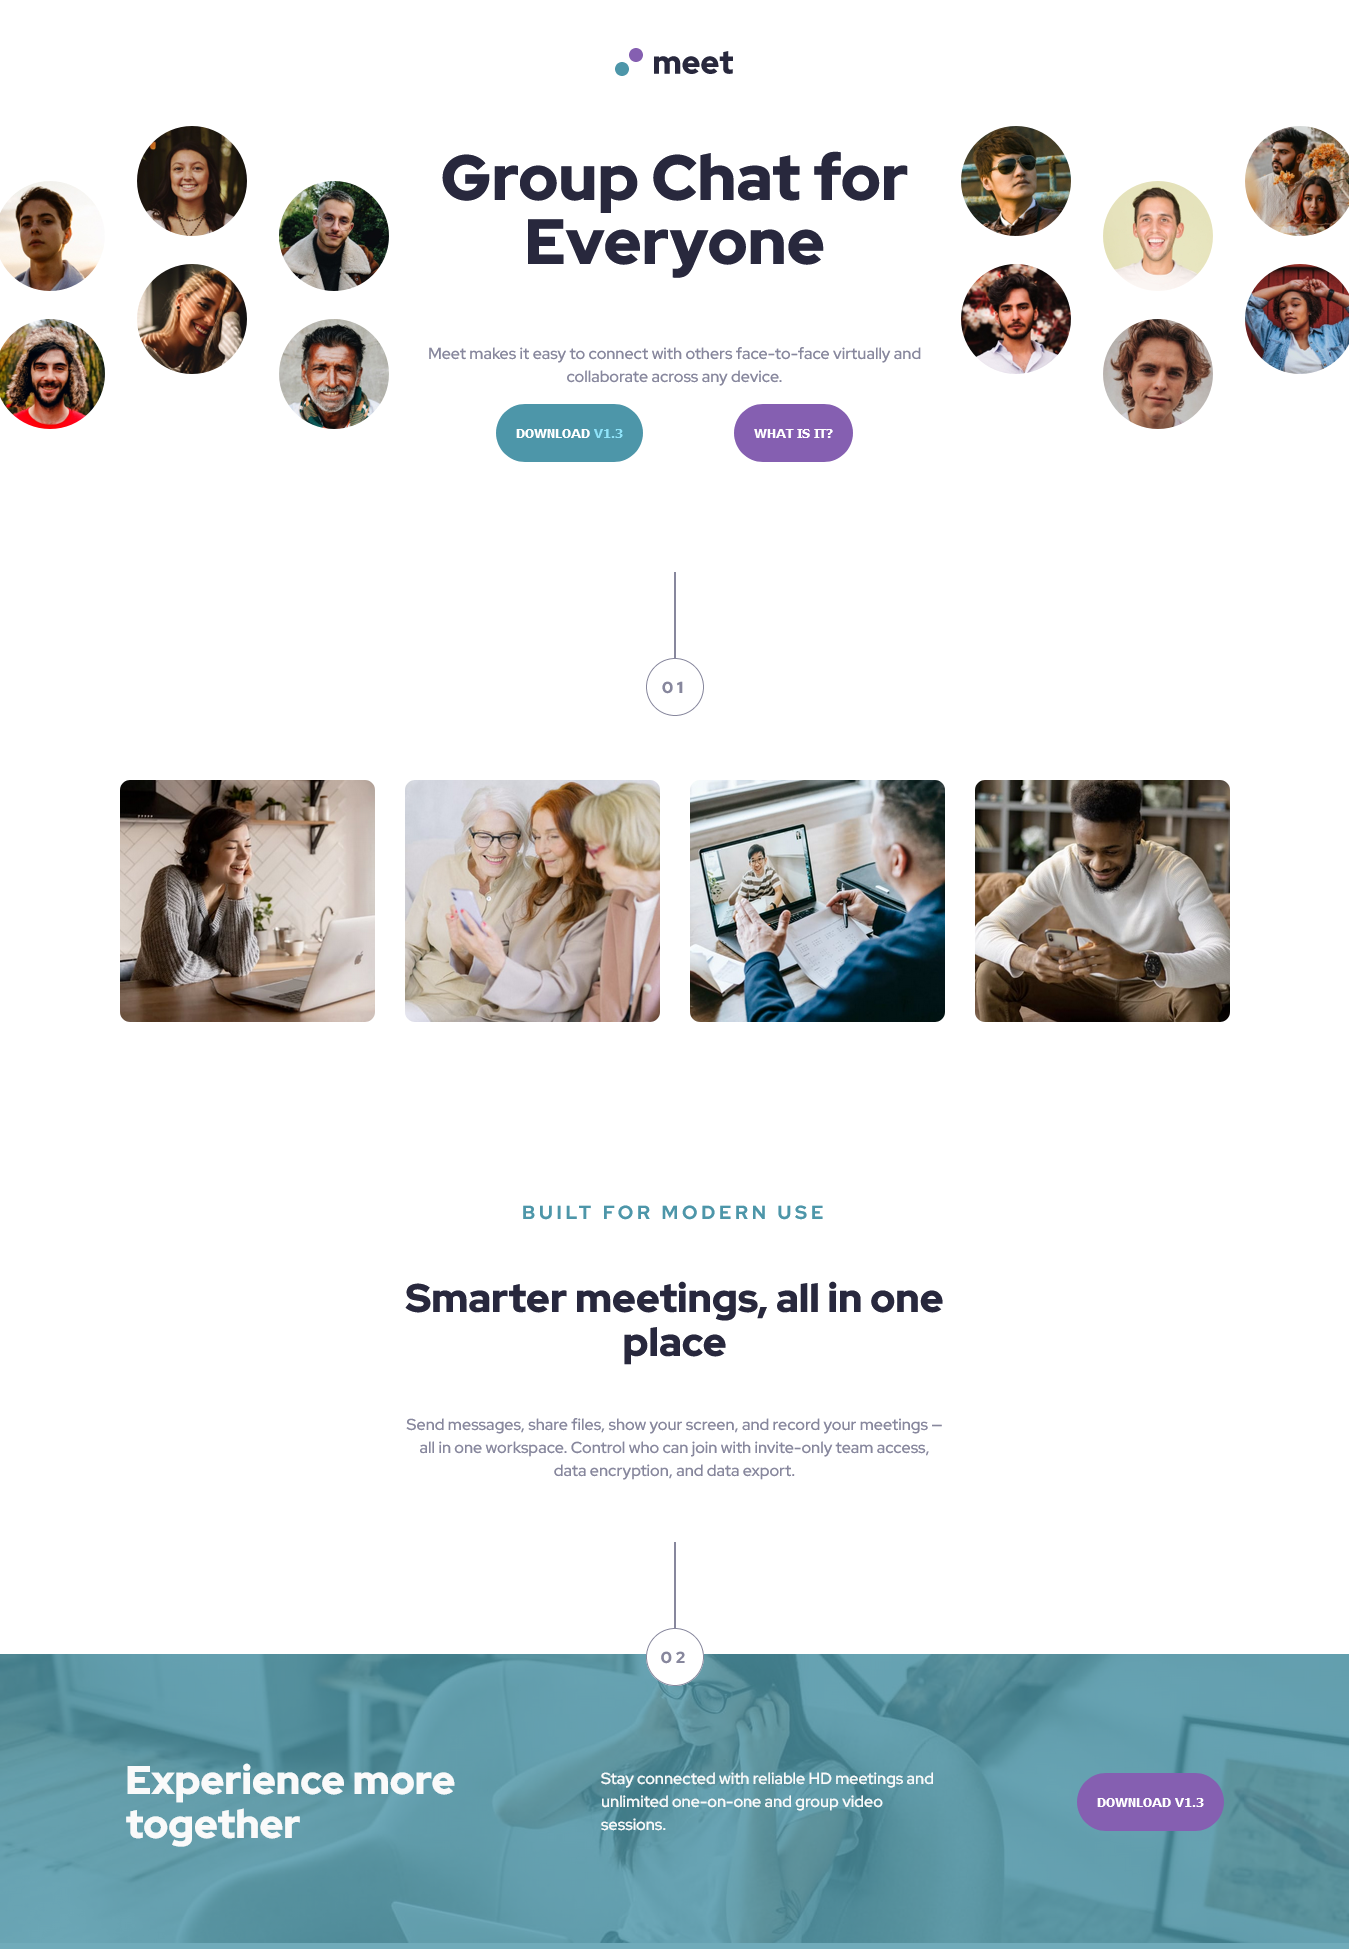
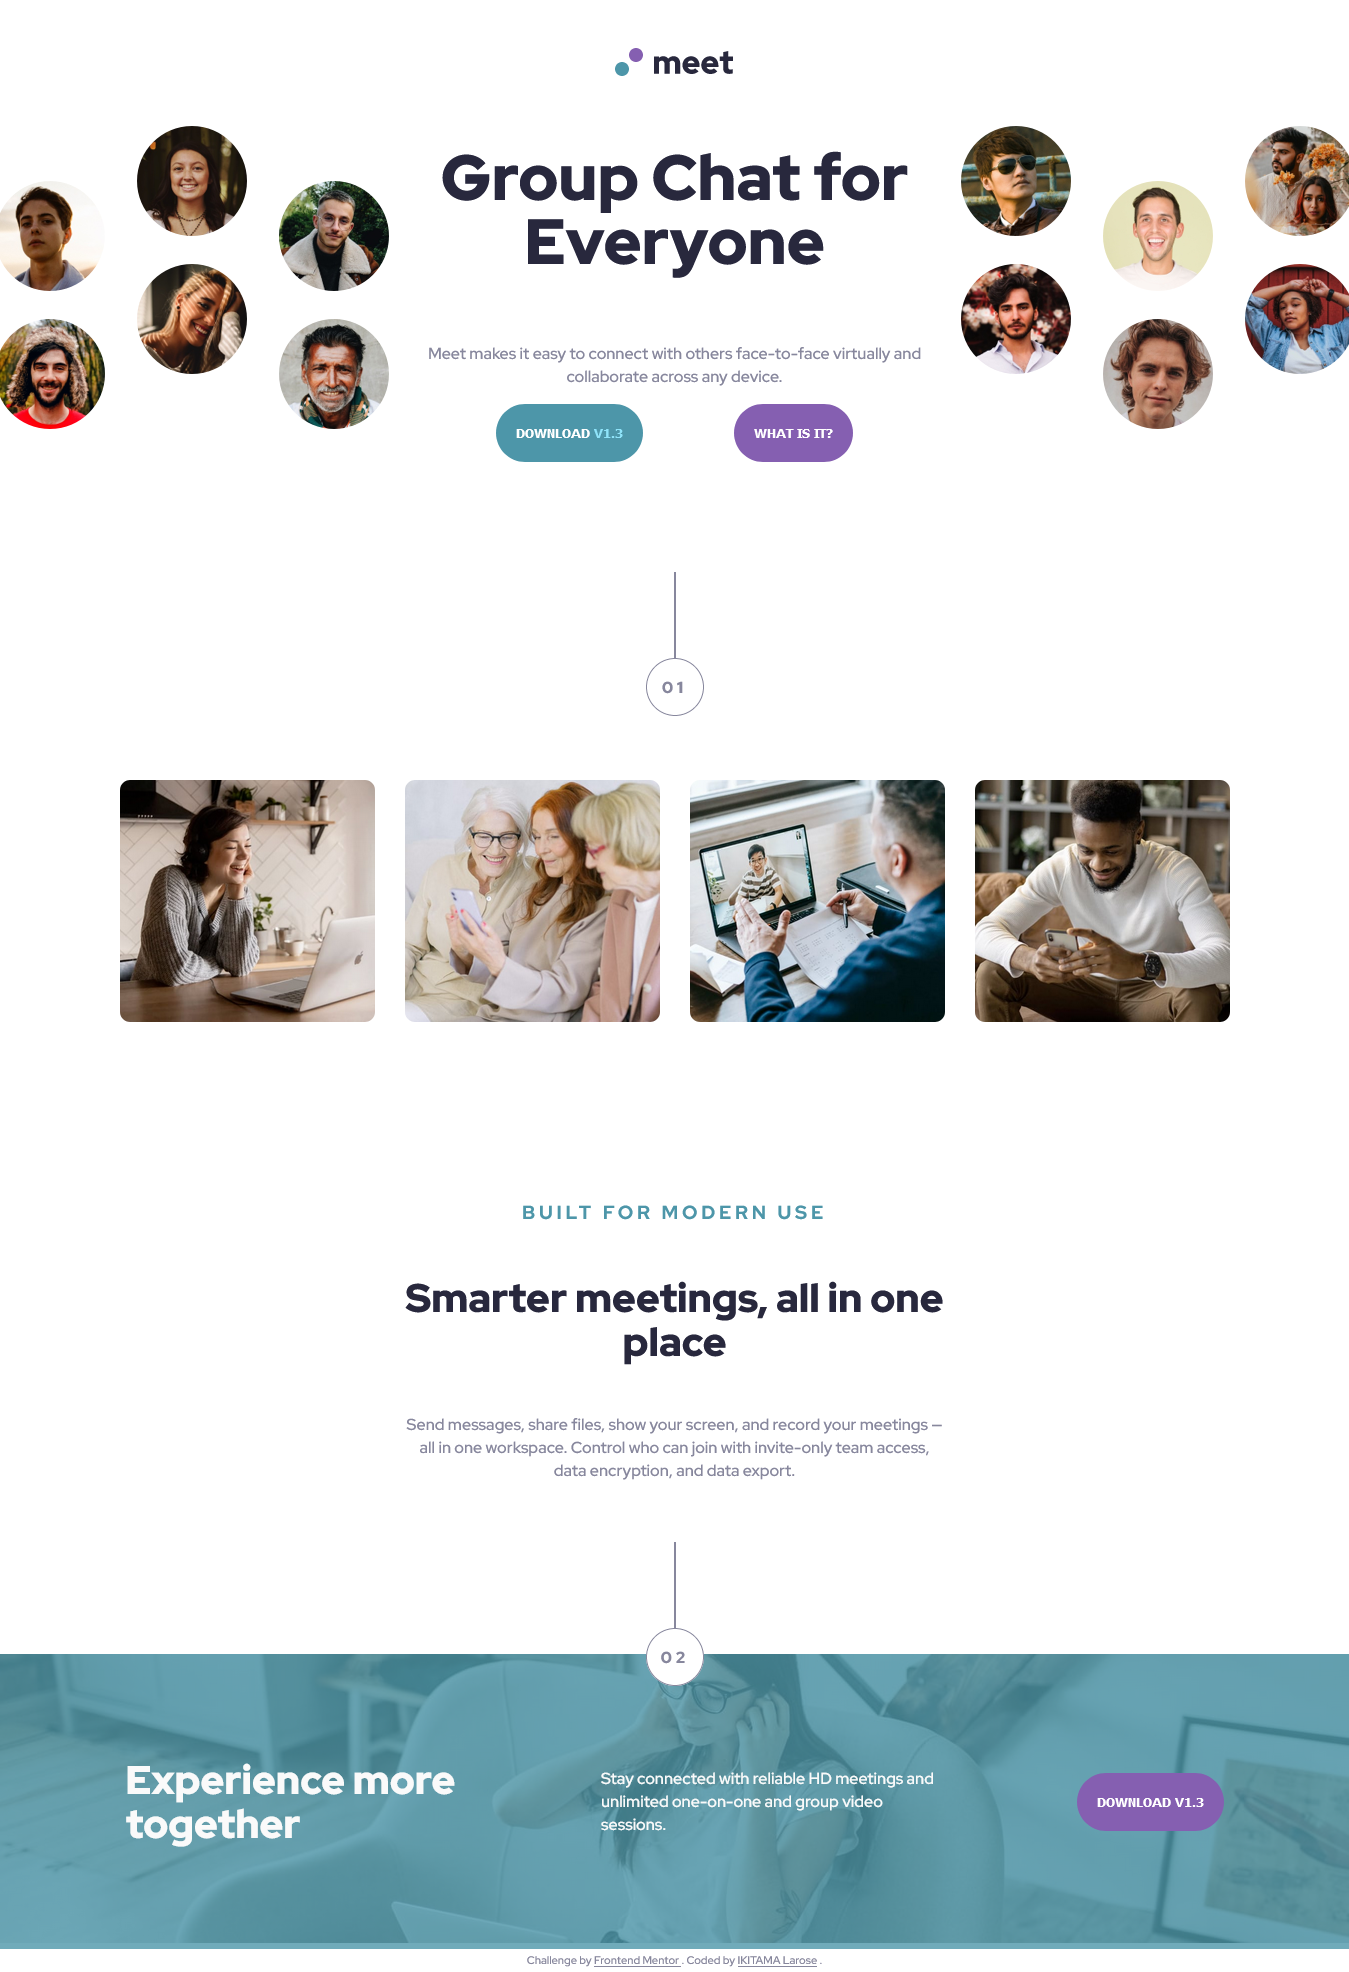
updated screenshot

diff --git a/index.html b/index.html
@@ -145,5 +145,16 @@ workspace. Control who can join with invite-only team access, data encryption, a
 
 			</section>
 		</div>
+		<div class="attribution">
+			Challenge by
+			<a href="https://www.frontendmentor.io?ref=challenge"
+				target="_blank">
+				Frontend Mentor
+			</a>
+			. 
+    Coded by
+    <a href="https://www.frontendmentor.io/profile/ikitamalarose">IKITAMA Larose</a>
+			.
+		</div>
 	</body>
 </html>

diff --git a/starter-code/styles/main.css b/starter-code/styles/main.css
@@ -161,6 +161,16 @@ h3 {
     align-items: center;
 }
 
+.attribution {
+    font-size: 0.688rem;
+    text-align: center;
+    color: var(--very-dark-blackish-blue);
+}
+
+.attribution a {
+    color: var(--very-dark-grayish-blue);
+}
+
 /* Media queries */
 
 /* mobile */
